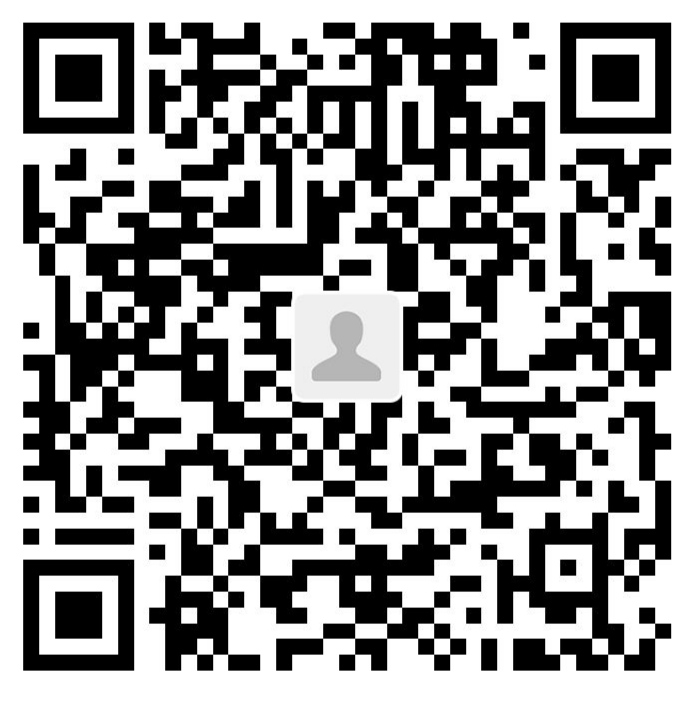
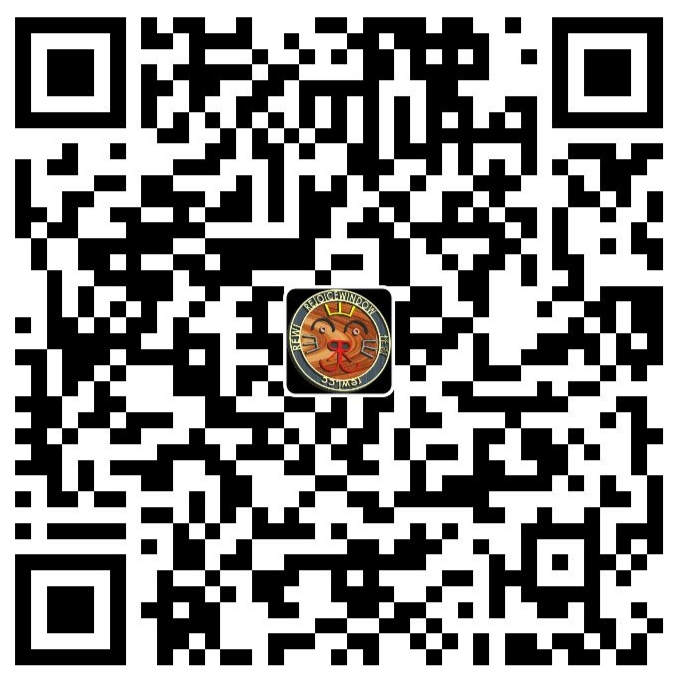
V0.1.3: 更新donate；修改提交、发布脚本

Changed region(s): [[0.0, 0.0, 0.9853, 0.9725], [0.4927, 0.2431, 0.5235, 0.2735], [0.4619, 0.2735, 0.4927, 0.3039]]

diff --git a/blogs/developer/git/git提交技巧.md b/blogs/developer/git/git提交技巧.md
@@ -1,0 +1,33 @@
+---
+title: Git提交技巧
+date: 2023/02/20
+tags:
+ - 提交
+categories:
+ - Git
+---
+
+## 使用shell脚本提取package.json版本
+
+- http://www.longant.cn/zh-hans/node/6056
+- https://stackoverflow.com/questions/44833218/extract-package-json-version-using-shell-script
+
+```bash
+# 方法一
+VERSION=$(node -e "(function () { console.log(require('./package.json').version) })()")
+# 方法二
+sed 's/.*"version": "\(.*\)".*/\1/;t;d' ./package.json
+# 方法三
+NODE_VERSION=$(node -p -e "require('./package.json').version")
+echo $NODE_VERSION
+# 方法四
+awk -F'"' '/"version": ".+"/{ print $4; exit; }' package.json
+```
+
+## git push -u 简单理解
+
+- https://blog.csdn.net/weixin_48321825/article/details/124431351
+
+```text
+第一次提交需要加 -u参数后，以后即可直接用git push代替git push origin master
+```
